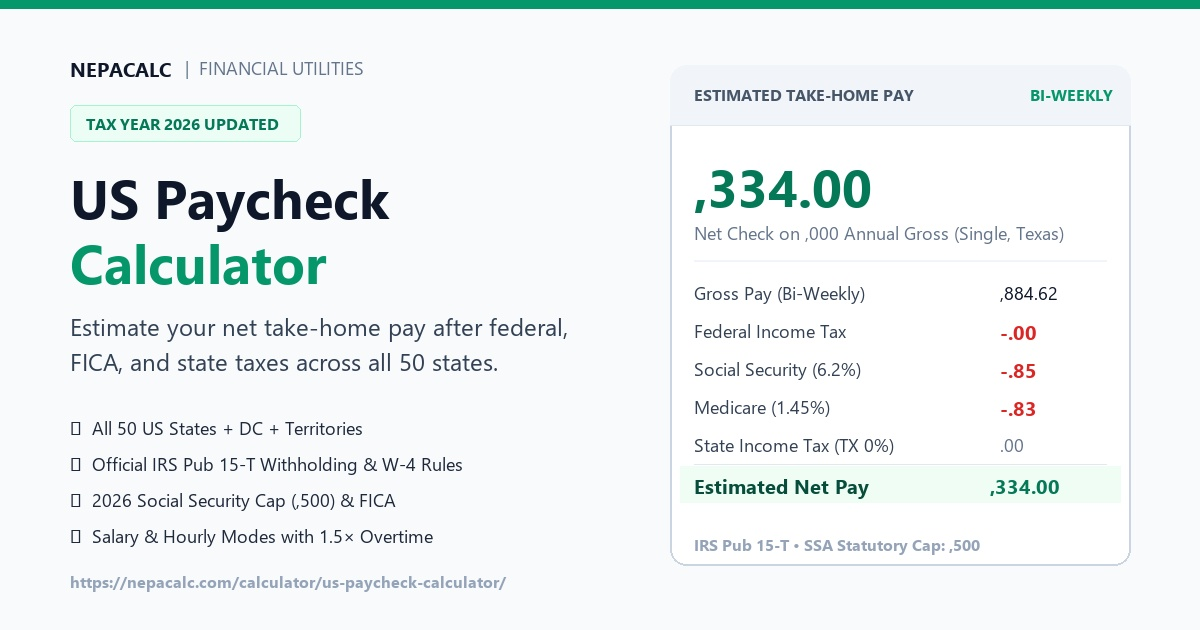
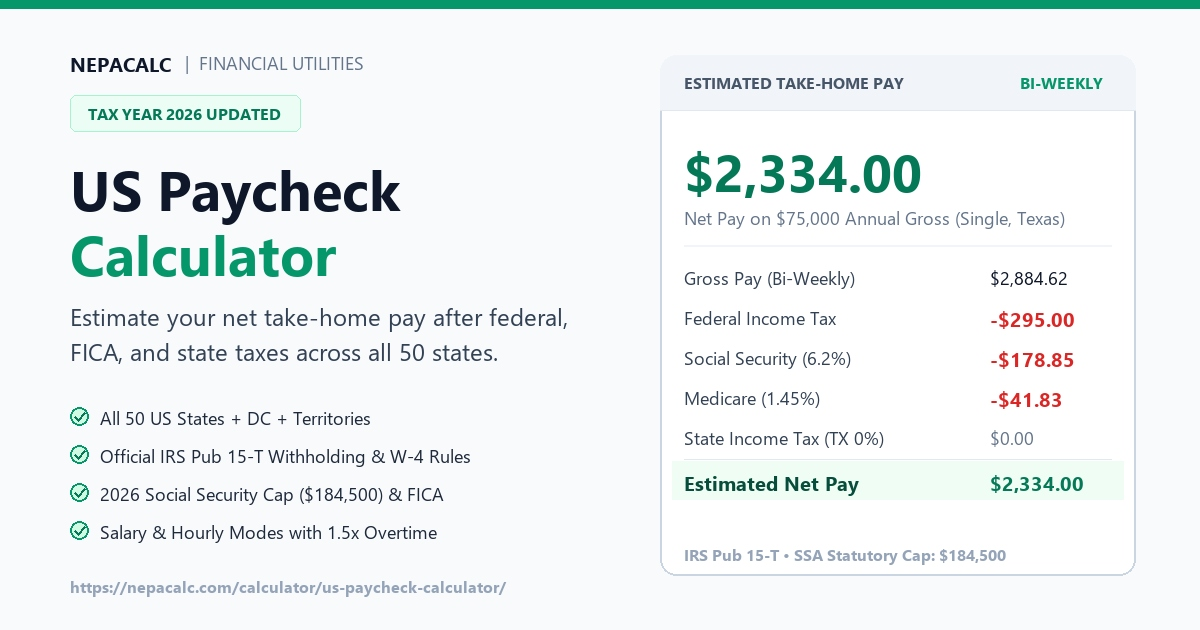
fix(og-image): fix PowerShell dollar variable expansion and glyph tofu rendering

diff --git a/scripts/generate_og_card.py b/scripts/generate_og_card.py
@@ -1,0 +1,116 @@
+import os
+from PIL import Image, ImageDraw, ImageFont
+
+W, H = 1200, 630
+img = Image.new('RGB', (W, H), '#f8fafc')
+draw = ImageDraw.Draw(img)
+
+# Fonts
+font_title = ImageFont.truetype('C:/Windows/Fonts/segoeuib.ttf', 56)
+font_subtitle = ImageFont.truetype('C:/Windows/Fonts/segoeui.ttf', 24)
+font_bold_lg = ImageFont.truetype('C:/Windows/Fonts/segoeuib.ttf', 32)
+font_bold_md = ImageFont.truetype('C:/Windows/Fonts/segoeuib.ttf', 20)
+font_bold_sm = ImageFont.truetype('C:/Windows/Fonts/segoeuib.ttf', 16)
+font_regular = ImageFont.truetype('C:/Windows/Fonts/segoeui.ttf', 18)
+font_hero = ImageFont.truetype('C:/Windows/Fonts/segoeuib.ttf', 52)
+
+# Top decorative bar (Crisp Emerald Green)
+draw.rectangle([(0, 0), (W, 8)], fill='#059669')
+
+# Left side content
+# Brand
+draw.text((70, 50), 'NEPACALC', font=font_bold_md, fill='#0f172a')
+draw.text((185, 50), '|  FINANCIAL UTILITIES', font=font_regular, fill='#64748b')
+
+# 2026 Badge
+badge_x, badge_y = 70, 95
+draw.rounded_rectangle([(badge_x, badge_y), (badge_x + 230, badge_y + 36)], radius=6, fill='#ecfdf5', outline='#a7f3d0', width=1)
+draw.text((badge_x + 18, badge_y + 7), 'TAX YEAR 2026 UPDATED', font=font_bold_sm, fill='#047857')
+
+# Title & Subtitle
+draw.text((70, 150), 'US Paycheck', font=font_title, fill='#0f172a')
+draw.text((70, 215), 'Calculator', font=font_title, fill='#059669')
+draw.text((70, 300), 'Estimate your net take-home pay after federal,', font=font_subtitle, fill='#334155')
+draw.text((70, 335), 'FICA, and state taxes across all 50 states.', font=font_subtitle, fill='#334155')
+
+# Feature highlights with custom drawn crisp checkmark circles
+features = [
+    'All 50 US States + DC + Territories',
+    'Official IRS Pub 15-T Withholding & W-4 Rules',
+    '2026 Social Security Cap ($184,500) & FICA',
+    'Salary & Hourly Modes with 1.5x Overtime'
+]
+
+y_feat = 405
+for text in features:
+    # Draw emerald green circle
+    draw.ellipse([(70, y_feat + 2), (88, y_feat + 20)], fill='#d1fae5', outline='#059669', width=2)
+    # Draw checkmark inside circle
+    draw.line([(74, y_feat + 11), (78, y_feat + 15)], fill='#047857', width=2)
+    draw.line([(78, y_feat + 15), (85, y_feat + 7)], fill='#047857', width=2)
+    # Draw feature text
+    draw.text((100, y_feat), text, font=font_regular, fill='#1e293b')
+    y_feat += 38
+
+# Bottom URL
+draw.text((70, 575), 'https://nepacalc.com/calculator/us-paycheck-calculator/', font=font_bold_sm, fill='#94a3b8')
+
+# Right Side Card: Clean, Crisp White Financial Breakdown
+card_x0, card_y0 = 660, 55
+card_w, card_h = 475, 520
+card_x1, card_y1 = card_x0 + card_w, card_y0 + card_h
+
+# Draw card background & border
+draw.rounded_rectangle([(card_x0, card_y0), (card_x1, card_y1)], radius=16, fill='#ffffff', outline='#cbd5e1', width=2)
+
+# Card Header
+draw.rounded_rectangle([(card_x0, card_y0), (card_x1, card_y0 + 55)], radius=16, fill='#f1f5f9')
+draw.rectangle([(card_x0, card_y0 + 35), (card_x1, card_y0 + 55)], fill='#f1f5f9')
+draw.line([(card_x0, card_y0 + 55), (card_x1, card_y0 + 55)], fill='#e2e8f0', width=1)
+draw.text((card_x0 + 24, card_y0 + 16), 'ESTIMATED TAKE-HOME PAY', font=font_bold_sm, fill='#475569')
+draw.text((card_x1 - 115, card_y0 + 16), 'BI-WEEKLY', font=font_bold_sm, fill='#059669')
+
+# Hero Amount
+draw.text((card_x0 + 24, card_y0 + 80), '$2,334.00', font=font_hero, fill='#047857')
+draw.text((card_x0 + 24, card_y0 + 150), 'Net Pay on $75,000 Annual Gross (Single, Texas)', font=font_regular, fill='#64748b')
+
+# Divider
+draw.line([(card_x0 + 24, card_y0 + 190), (card_x1 - 24, card_y0 + 190)], fill='#f1f5f9', width=2)
+
+# Deduction Rows Table
+rows = [
+    ('Gross Pay (Bi-Weekly)', '$2,884.62', '#0f172a', False),
+    ('Federal Income Tax', '-$295.00', '#dc2626', False),
+    ('Social Security (6.2%)', '-$178.85', '#dc2626', False),
+    ('Medicare (1.45%)', '-$41.83', '#dc2626', False),
+    ('State Income Tax (TX 0%)', '$0.00', '#64748b', False),
+    ('Estimated Net Pay', '$2,334.00', '#047857', True),
+]
+
+y_row = card_y0 + 210
+for label, val, color, is_total in rows:
+    if is_total:
+        draw.line([(card_x0 + 24, y_row - 6), (card_x1 - 24, y_row - 6)], fill='#e2e8f0', width=1)
+        draw.rectangle([(card_x0 + 12, y_row - 4), (card_x1 - 12, y_row + 34)], fill='#f0fdf4')
+        draw.text((card_x0 + 24, y_row + 4), label, font=font_bold_md, fill='#064e3b')
+        draw.text((card_x1 - 145, y_row + 4), val, font=font_bold_md, fill=color)
+    else:
+        draw.text((card_x0 + 24, y_row), label, font=font_regular, fill='#334155')
+        draw.text((card_x1 - 145, y_row), val, font=font_bold_md if '-' in val else font_regular, fill=color)
+    y_row += 40
+
+# Footnote inside card
+draw.text((card_x0 + 24, card_y1 - 32), 'IRS Pub 15-T • SSA Statutory Cap: $184,500', font=font_bold_sm, fill='#94a3b8')
+
+# Save to public/images/og/ and out/images/og/
+pub_path = r'c:\Users\hp\Desktop\Movie\calcpro-FIXED\calcpro-final-build\public\images\og\us-paycheck-calculator.jpg'
+out_path = r'c:\Users\hp\Desktop\Movie\calcpro-FIXED\calcpro-final-build\out\images\og\us-paycheck-calculator.jpg'
+artifact_path = r'C:\Users\hp\.gemini\antigravity\brain\a9e690cf-cc5b-4b10-aba5-a2bc47078db3\us-paycheck-calculator-og.jpg'
+
+os.makedirs(os.path.dirname(pub_path), exist_ok=True)
+os.makedirs(os.path.dirname(out_path), exist_ok=True)
+
+img.save(pub_path, quality=98)
+img.save(out_path, quality=98)
+img.save(artifact_path, quality=98)
+print('Successfully generated and saved card to all 3 paths!')
